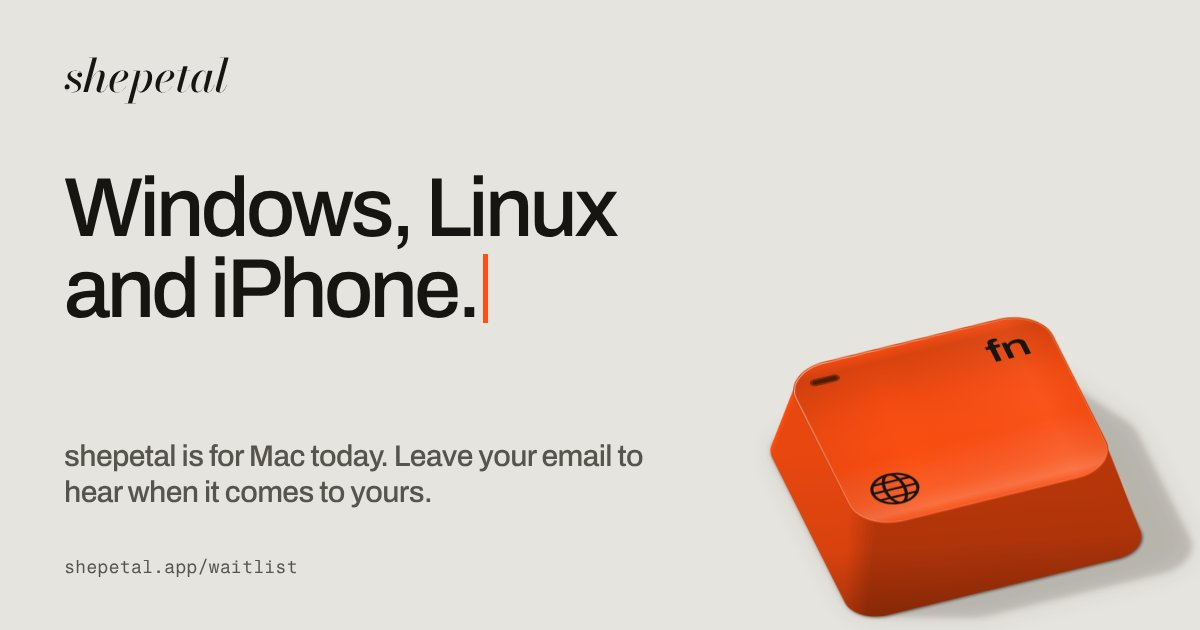
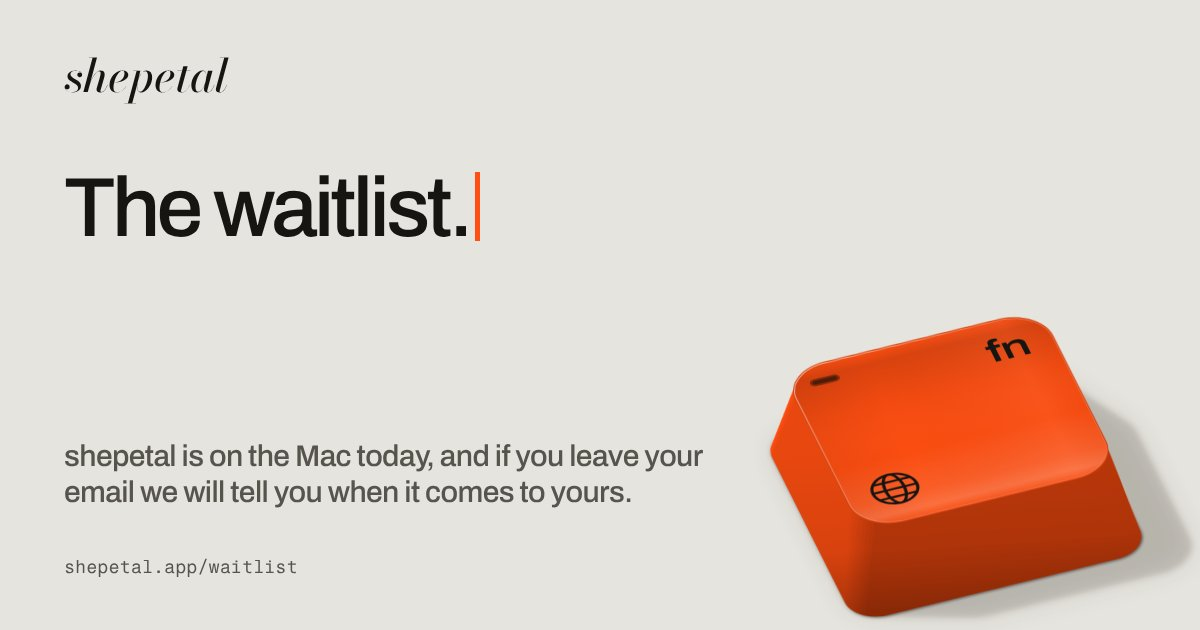
Waitlist: copy in Pavel's voice
- The waitlist page, its six note pages, the form, the consent box, the FAQ line, the confirmation email and the
  privacy section III.8 rewritten: second person, what you do and what happens, plain one to three word headings,
  and every fact as it was (7 days, 30 minutes, 30 days, double opt-in, AWS as the only recipient, Art. 6(1)(a) GDPR).
- pages.json: the waitlist title and sub line, and public/og/waitlist.jpg rendered from them.
- src/lib/brand-copy.ts: copyProblems() checks copy for an em dash, a capital "Shepetal", a hedge, the banned lines,
  "AI" or a model name, a footnote, a speed ratio, an unapproved price and the contrast and negation shapes. The
  waitlist tests run it over every page, title, preview, label, the FAQ line, the privacy section and the email.

Changed region(s): [[0.0308, 0.2714, 0.5242, 0.5127], [0.0617, 0.6937, 0.5858, 0.8143]]

diff --git a/web/src/components/site/waitlist.test.tsx b/web/src/components/site/waitlist.test.tsx
@@ -2,6 +2,7 @@ import { existsSync, readdirSync, readFileSync } from 'node:fs';
 import { join } from 'node:path';
 import { renderToStaticMarkup } from 'react-dom/server';
 import { afterEach, describe, expect, it, vi } from 'vitest';
+import { copyProblems, visibleText } from '@/lib/brand-copy';
 import { CONSENT_TEXT, PAGE } from '@/lib/waitlist-config';
 import { WaitlistForm } from './Waitlist';
 
@@ -55,13 +56,13 @@ describe('with WAITLIST on', () => {
     // The FAQ's answers are built when the module loads (as in the build, which inlines WAITLIST).
     vi.resetModules();
     const faq = renderToStaticMarkup((await import(/* @vite-ignore */ join(APP, '(site)', 'faq', 'page.tsx'))).default());
-    expect(faq).toContain('<a href="/waitlist">Join the waitlist</a> to hear when yours is out.');
+    expect(faq).toContain('<a href="/waitlist">Join the waitlist</a> and we will email you when yours is out.');
     expect((await import('@/app/sitemap')).default().map((e) => e.url)).toContain(`https://${process.env.SHEPETAL_DOMAIN}/waitlist`);
     const privacy = renderToStaticMarkup((await import(/* @vite-ignore */ join(APP, '(site)', 'privacy', 'page.tsx'))).default());
     for (const must of ['id="waitlist"', 'one purpose only', 'double opt-in', 'Art. 6(1)(a) GDPR', 'withdraw', 'deletes your address at once', 'within 30 days', 'and the waitlist emails'])
       expect(privacy, must).toContain(must);
     expect(renderToStaticMarkup((await import(/* @vite-ignore */ join(APP, '(site)', 'waitlist', 'page.tsx'))).default())).toContain(
-      'We use your email for one thing: to tell you when shepetal comes to a platform you chose.',
+      'We only use your email to tell you when shepetal comes to a platform you chose.',
     );
   });
 });
@@ -86,7 +87,7 @@ describe('the waitlist form', () => {
 
   // GDPR consent is a box the person ticks, in these exact words, which each row stores (consent_text).
   it('asks for consent with a required box that starts unticked, in the words the database stores', () => {
-    expect(CONSENT_TEXT).toBe('Email me when shepetal comes to a platform I chose, and for nothing else. Unsubscribe anytime.');
+    expect(CONSENT_TEXT).toBe('Email me when shepetal comes to a platform I chose. You use my email for this only, and I can unsubscribe anytime.');
     expect(attrs(html, 'input', 'name="consent"')).toEqual({ type: 'checkbox', required: '', name: 'consent', value: 'yes' });
     expect(html).toMatch(new RegExp(`<label class="s-check"><input [^>]*name="consent"[^>]*/>${CONSENT_TEXT.replace(/\./g, '\\.')}</label>`));
     expect(html).not.toMatch(/checked/);
@@ -129,5 +130,45 @@ describe('the waitlist pages', () => {
 
   it('link with prefetch off', () => {
     for (const p of pages) for (const tag of read(p).match(/<Link\b[^>]*>/g) ?? []) expect(tag, p).toContain('prefetch={false}');
+  });
+});
+
+// Every word a visitor reads on the waitlist: the pages, their titles and previews, the form, the FAQ line and the
+// privacy section (the email is checked in src/lib/waitlist.test.ts). Brand rules and the voice skill's sentence shapes.
+describe('the waitlist copy', () => {
+  it('catches what the brand rules ban', () => {
+    for (const bad of ['Shepetal is out.', 'Hold fn, speak, let go.', 'hold fn, talk', 'Dictation that keeps quiet.', 'It may come.', 'up to 3 years', 'Now with AI.', 'That is it—done.', 'Twice the speed<sup>1</sup>', '3x faster than typing', 'We never sell it.', 'It works without a key.', '$5 a month'])
+      expect(copyProblems(bad), bad).not.toEqual([]);
+    for (const good of ['$23.99 once. Yours forever.', '$0.99 a month.', '4x faster than typing.', 'Works offline.'])
+      expect(copyProblems(good), good).toEqual([]);
+  });
+
+  it('keeps every brand rule on every page, title, preview, label and message', async () => {
+    vi.stubEnv('WAITLIST', 'on');
+    vi.resetModules();
+    const texts: Record<string, string> = {};
+    const pages = ['', ...readdirSync(DIR, { withFileTypes: true }).filter((d) => d.isDirectory()).map((d) => d.name)];
+    for (const p of pages) {
+      const mod = await import(/* @vite-ignore */ join(DIR, p, 'page.tsx'));
+      const html = renderToStaticMarkup(mod.default());
+      expect(html, p).not.toBe('');
+      texts[p || 'waitlist'] = visibleText(html);
+      const m = mod.metadata as { title?: string; description?: string; openGraph?: { title?: string; description?: string; images?: { alt?: string }[] } };
+      texts[`${p || 'waitlist'} metadata`] = [m.title, m.description, m.openGraph?.title, m.openGraph?.description, m.openGraph?.images?.[0]?.alt].join(' ');
+    }
+    const { PAGES } = await import('@/lib/seo');
+    texts['link preview'] = `${PAGES.waitlist.title} ${PAGES.waitlist.sub}`;
+    texts.consent = CONSENT_TEXT;
+    const faq = visibleText(renderToStaticMarkup((await import(/* @vite-ignore */ join(APP, '(site)', 'faq', 'page.tsx'))).default()));
+    texts.faq = faq.match(/Join the waitlist[^.]*\./)![0];
+    const privacy = renderToStaticMarkup((await import(/* @vite-ignore */ join(APP, '(site)', 'privacy', 'page.tsx'))).default());
+    texts.privacy = [
+      privacy.match(/<h3 id="waitlist">[\s\S]*?(?=<div class="s-box">)/)![0],
+      privacy.match(/<li>The waitlist:[^<]*<\/li>/)![0],
+      privacy.match(/The waitlist needs[^.]*\./)![0],
+      privacy.match(/and the waitlist emails \(section III\.8\)/)![0],
+    ].map(visibleText).join(' ');
+    for (const [where, text] of Object.entries(texts)) expect(copyProblems(text), `${where}: ${text}`).toEqual([]);
+    expect(texts.privacy).toContain('one purpose only');
   });
 });

diff --git a/web/src/app/(site)/privacy/page.tsx b/web/src/app/(site)/privacy/page.tsx
@@ -142,21 +142,21 @@ export default function PrivacyPolicy() {
               <h3 id="waitlist">8. The waitlist</h3>
               <p>
                 When you join the waitlist for Windows, Linux or iPhone, we store your email address, the platforms you
-                chose, the words of the box you ticked, when you signed up and when you confirmed, and a keyed hash
-                (HMAC-SHA-256) of your IP address, which only limits how many signups come from one connection. Your IP
-                address itself is not stored.
+                chose, the words of the box you ticked, and when you signed up and when you confirmed. Of your IP
+                address we keep only a keyed hash (HMAC-SHA-256), and we use it to limit how many signups come from one
+                connection.
               </p>
               <p>
-                We use your email address for one purpose only: to email you when shepetal comes to a platform you
-                chose. No newsletter, no offers, no analytics, and nobody receives it except Amazon Web Services, which
-                sends the emails for us. First we send one email to confirm the address (double opt-in): the address
-                counts only once you click its link, and if you never do, we send nothing else.
+                We use your email address for one purpose only, and that is to email you when shepetal comes to a
+                platform you chose. The only one who receives it is Amazon Web Services, which sends the emails for us.
+                First we send you one email to confirm the address (double opt-in), and the address counts only once you
+                click its link, so until you do, that confirmation is the only email you get from us.
               </p>
               <p>
                 Every email has a link that unsubscribes you and deletes your address at once. You can also withdraw
-                your consent at any time by writing to <a href="mailto:support@shepetal.app">support@shepetal.app</a>;
-                that does not affect what we did before. The links carry a random number, never your address, and your
-                address is never written to our request logs.
+                your consent at any time by writing to <a href="mailto:support@shepetal.app">support@shepetal.app</a>,
+                and what we did before you withdrew stays lawful. The links carry a random number in place of your
+                address, so your address stays out of our request logs.
               </p>
               <p>
                 Legal basis: Art. 6(1)(a) GDPR, your consent, which is also the express consent § 7 of the German Act
@@ -231,9 +231,9 @@ export default function PrivacyPolicy() {
             <li>Email to us: up to 3 years after the end of the year of our last exchange.</li>
             {waitlistOn() && (
               <li>
-                The waitlist: an address that is not confirmed is deleted within 30 days of its last signup. A confirmed
-                address is deleted when you unsubscribe, or once shepetal has come to every platform you chose and we
-                have told you.
+                The waitlist: an unconfirmed address is deleted within 30 days of its last signup. A confirmed address
+                is deleted when you unsubscribe, or once shepetal has come to every platform you chose and we have told
+                you.
               </li>
             )}
             <li>Cancellations: 3 years after the end of the year you sent them, deleted by the next cancellation sent after that. The email that told us of it is kept like email to us. The counts that limit the form: one minute.</li>
@@ -244,7 +244,7 @@ export default function PrivacyPolicy() {
             You need a Google account and its email address to have an account and to use the app: without them we
             cannot give you a trial or a license. To buy, Stripe needs your payment and billing details, which the law
             also requires for tax. To cancel without signing in, we need the email of your account to find your
-            contract.{waitlistOn() && ' The waitlist needs your email address, and only if you want to join it.'} Analytics are not needed for anything: the Service works the same without them. No analytics script
+            contract.{waitlistOn() && ' The waitlist needs your email address, and you give it to us only if you want to join.'} Analytics are not needed for anything: the Service works the same without them. No analytics script
             runs in your browser. The server events in section III.5 do not depend on your browser, but you can object
             to them (see the box in section III).
           </p>

diff --git a/web/src/app/(site)/waitlist/page.tsx b/web/src/app/(site)/waitlist/page.tsx
@@ -8,7 +8,7 @@ import { waitlistOn } from '@/lib/waitlist-config';
 
 export const metadata: Metadata = pageMetadata('waitlist', {
   title: 'Waitlist',
-  description: 'shepetal is for Mac today. Leave your email to hear when it comes to Windows, Linux or iPhone.',
+  description: 'shepetal is on the Mac today, and if you leave your email we will tell you when it comes to Windows, Linux or iPhone.',
 });
 
 // Prerendered and served from the cache: the Workers Free plan's 10 ms of CPU leaves no room for a render. The build
@@ -21,13 +21,16 @@ export default function Waitlist() {
     <>
       <SiteHeader end={<Link href="/faq" prefetch={false}>FAQ</Link>} />
       <main className="s-main s-legal s-waitlist">
-        <h1 className="s-h2">Windows, Linux and iPhone.</h1>
-        <p className="s-lede">shepetal is for Mac today. Leave your email, and we write when it comes to yours.</p>
+        <h1 className="s-h2">The waitlist.</h1>
+        <p className="s-lede">
+          You probably use Windows, Linux or an iPhone and want shepetal there too, and today it is only on the Mac.
+          Leave your email and we will write to you when it comes to yours.
+        </p>
         <WaitlistForm />
         <p className="s-small">
-          We use your email for one thing: to tell you when shepetal comes to a platform you chose. First we send one
-          email to confirm your address. Every email has a link that unsubscribes you and deletes your address.{' '}
-          <Link href="/privacy#waitlist" prefetch={false}>Privacy Policy</Link>.
+          We only use your email to tell you when shepetal comes to a platform you chose. First we send you one email
+          to confirm your address, and every email from us has a link that unsubscribes you and deletes your address.
+          You can read the details in our <Link href="/privacy#waitlist" prefetch={false}>Privacy Policy</Link>.
         </p>
       </main>
     </>

diff --git a/web/src/lib/brand-copy.ts b/web/src/lib/brand-copy.ts
@@ -1,0 +1,37 @@
+/**
+ * The brand rules for public copy, as a check the tests run over the words a visitor reads (rendered text, metadata,
+ * emails). Returns what breaks a rule, empty when the copy is clean.
+ */
+const RULES: [string, RegExp][] = [
+  ['em dash', /—/],
+  ['capital Shepetal', /Shepetal/],
+  ['hedge', /\b(about|around|roughly|up to|typically|may|might|arguably|essentially|fundamentally)\b/i],
+  ['banned line', /hold (the )?fn|fn, (speak|talk)|dictation that keeps quiet/i],
+  ['AI or a model', /\bAI\b|\b(claude|gpt|chatgpt|gemini|whisper|llama|parakeet)\b/i],
+  ['footnote', /<sup\b|[¹²³†‡]|\[\d+\]/],
+  // A measured ratio is never published; the one approved claim is "4x faster than typing.", word for word.
+  ['speed ratio', /\b(?!4x faster than typing\.)\d+(\.\d+)?\s?(x|times) (faster|quicker)/i],
+  // The sentence shapes the voice skill rewrites as what happens.
+  ['contrast or negation', /\b(not a|rather than|instead of|does not|has no|never|on purpose|intentional|for the record|without|at the time of writing|nothing else)\b/i],
+];
+
+const APPROVED_PRICES = ['$23.99 once. Yours forever.', '$0.99 a month.'];
+
+export function copyProblems(text: string): string[] {
+  const found = RULES.filter(([, re]) => re.test(text)).map(([name, re]) => `${name}: "${text.match(re)![0]}"`);
+  const prices = APPROVED_PRICES.reduce((t, p) => t.split(p).join(''), text);
+  if (/[$€]\s?\d/.test(prices)) found.push('price outside the approved lines');
+  if (/4x faster than typing/i.test(text) && !text.includes('4x faster than typing.')) found.push('4x claim reworded');
+  return found;
+}
+
+/** The text of rendered HTML, the way a visitor reads it. */
+export const visibleText = (html: string) =>
+  html
+    .replace(/<[^>]+>/g, ' ')
+    .replace(/&#x27;|&#39;/g, "'")
+    .replace(/&quot;/g, '"')
+    .replace(/&nbsp;/g, ' ')
+    .replace(/&amp;/g, '&')
+    .replace(/\s+/g, ' ')
+    .trim();

diff --git a/web/src/lib/waitlist.test.ts b/web/src/lib/waitlist.test.ts
@@ -1,6 +1,7 @@
 import { readdirSync, readFileSync } from 'node:fs';
 import { join } from 'node:path';
 import { afterEach, beforeEach, describe, expect, it, vi } from 'vitest';
+import { copyProblems } from './brand-copy';
 import { db, useTestDb } from './test-db';
 
 // The waitlist is answered by worker.ts without Next (10 ms of CPU on Workers Free), and it holds people's email
@@ -256,11 +257,12 @@ describe('the confirmation email and its link (double opt-in)', () => {
 
   it('says what the address is for, and has a link that unsubscribes', async () => {
     const m = await signedUp('ada@example.com', ['windows', 'iphone']);
-    expect(m.subject).toBe('Confirm your place on the shepetal waitlist');
+    expect(m.subject).toBe('Confirm your email for the shepetal waitlist');
     expect(m.text).toContain('shepetal comes to iPhone or Windows');
-    expect(m.text).toContain('We use your address for this one thing only: one email when shepetal comes to a platform you chose.');
+    expect(m.text).toContain('we only use your address to send you one email when shepetal comes to a platform you chose.');
     expect(m.text).toMatch(/Unsubscribe and delete your address: https:\/\/shepetal\.app\/api\/waitlist\/unsubscribe\?t=[\w-]+\.[\w-]+/);
-    expect(m.text).not.toMatch(/Shepetal|—|\b(may|might|about|around|roughly|typically)\b/);
+    // The links carry random tokens: only the words are copy.
+    expect(copyProblems(`${m.subject}\n${m.text.replace(/https:\/\/\S+/g, '<link>')}`)).toEqual([]);
   });
 
   // The request logs keep every URL: the address must not be in one, not even encoded.

diff --git a/web/src/lib/waitlist.ts b/web/src/lib/waitlist.ts
@@ -180,19 +180,19 @@ export async function sendConfirmation(secret: string, origin: string, email: st
   const names = platforms.map((p) => PLATFORMS[p]);
   const which = names.length > 1 ? `${names.slice(0, -1).join(', ')} or ${names.at(-1)}` : names[0];
   const text = [
-    `You asked to hear when shepetal comes to ${which}. Confirm it with this link:`,
+    `You asked us to tell you when shepetal comes to ${which}, so just click this link to confirm your email:`,
     '',
     confirm,
     '',
-    `The link works for ${CONFIRM_DAYS} days. We use your address for this one thing only: one email when shepetal comes to a platform you chose.`,
-    'If you did not ask for this, ignore this email: you hear nothing more from us, and we delete your address within 30 days.',
+    `The link works for ${CONFIRM_DAYS} days, and we only use your address to send you one email when shepetal comes to a platform you chose.`,
+    'If someone else typed in your address, just ignore this email. This is the last one you get from us, and we delete your address within 30 days.',
     '',
     `Unsubscribe and delete your address: ${unsubscribe}`,
     '',
     'shepetal',
     'BackAnt, Inc., 131 Continental Dr, Suite 305, Newark, DE 19713, USA',
   ].join('\n');
-  await sendMail(email, 'Confirm your place on the shepetal waitlist', text);
+  await sendMail(email, 'Confirm your email for the shepetal waitlist', text);
 }
 
 // --- GET /api/waitlist/confirm, GET and POST /api/waitlist/unsubscribe ------------------------------------------------

diff --git a/web/src/app/(site)/waitlist/link/page.tsx b/web/src/app/(site)/waitlist/link/page.tsx
@@ -2,17 +2,17 @@ import Link from 'next/link';
 import { noteMetadata, WaitlistNote } from '@/components/site/Waitlist';
 import { waitlistOn } from '@/lib/waitlist-config';
 
-export const metadata = noteMetadata('This link does not work');
+export const metadata = noteMetadata('Invalid link');
 export const dynamic = 'force-static';
 
 /** A confirmation or unsubscribe link that is not signed, is older than 7 days, or came before an unsubscribe. */
 export default function BadLink() {
   return (
-    <WaitlistNote title="This link does not work.">
-      <p>It is too old or incomplete.</p>
+    <WaitlistNote title="Invalid link.">
+      <p>The link you clicked is too old or incomplete.</p>
       {waitlistOn() && (
         <p>
-          Sign up again, and we send you a new one. <Link href="/waitlist" prefetch={false}>Back to the waitlist</Link>
+          Just sign up again and we will send you a new one. <Link href="/waitlist" prefetch={false}>Back to the waitlist</Link>
         </p>
       )}
     </WaitlistNote>

diff --git a/web/src/app/(site)/waitlist/confirmed/page.tsx b/web/src/app/(site)/waitlist/confirmed/page.tsx
@@ -2,15 +2,18 @@ import { notFound } from 'next/navigation';
 import { noteMetadata, WaitlistNote } from '@/components/site/Waitlist';
 import { waitlistOn } from '@/lib/waitlist-config';
 
-export const metadata = noteMetadata('You are on the list');
+export const metadata = noteMetadata('Confirmed');
 export const dynamic = 'force-static';
 
 export default function Confirmed() {
   // Only the signup and the confirmation link lead here: with WAITLIST off, built as the 404 page.
   if (!waitlistOn()) notFound();
   return (
-    <WaitlistNote title="You are on the list.">
-      <p>We write when shepetal comes to your platform. Every email has an unsubscribe link.</p>
+    <WaitlistNote title="Confirmed.">
+      <p>
+        Thanks, your address is confirmed and we will email you when shepetal comes to a platform you chose, and every
+        email from us has a link to unsubscribe.
+      </p>
     </WaitlistNote>
   );
 }

diff --git a/web/src/app/(site)/waitlist/check/page.tsx b/web/src/app/(site)/waitlist/check/page.tsx
@@ -3,15 +3,15 @@ import { notFound } from 'next/navigation';
 import { noteMetadata, WaitlistNote } from '@/components/site/Waitlist';
 import { waitlistOn } from '@/lib/waitlist-config';
 
-export const metadata = noteMetadata('Something is missing');
+export const metadata = noteMetadata('Missing details');
 export const dynamic = 'force-static';
 
 export default function Check() {
   // Only the signup and the confirmation link lead here: with WAITLIST off, built as the 404 page.
   if (!waitlistOn()) notFound();
   return (
-    <WaitlistNote title="Something is missing.">
-      <p>Enter your email, choose at least one platform and tick the box.</p>
+    <WaitlistNote title="Missing details.">
+      <p>To join, enter your email, pick at least one platform and tick the box, and then send the form again.</p>
       <p>
         <Link href="/waitlist" prefetch={false}>Back to the waitlist</Link>
       </p>

diff --git a/web/src/app/(site)/faq/page.tsx b/web/src/app/(site)/faq/page.tsx
@@ -115,12 +115,12 @@ const QAS: QA[] = [
         {waitlistOn() && (
           <>
             {' '}
-            <Link href="/waitlist" prefetch={false}>Join the waitlist</Link> to hear when yours is out.
+            <Link href="/waitlist" prefetch={false}>Join the waitlist</Link> and we will email you when yours is out.
           </>
         )}
       </p>
     ),
-    text: `Not yet. shepetal is for Mac today. Windows, Linux and iPhone are in the works, and they will be here when they are ready.${waitlistOn() ? ' Join the waitlist to hear when yours is out.' : ''}`,
+    text: `Not yet. shepetal is for Mac today. Windows, Linux and iPhone are in the works, and they will be here when they are ready.${waitlistOn() ? ' Join the waitlist and we will email you when yours is out.' : ''}`,
   },
   {
     q: 'Can I use it on more than one Mac?',

diff --git a/web/src/lib/waitlist-config.ts b/web/src/lib/waitlist-config.ts
@@ -13,7 +13,7 @@ export const PLATFORMS = { windows: 'Windows', linux: 'Linux', iphone: 'iPhone' 
 export type Platform = keyof typeof PLATFORMS;
 
 /** The checkbox's words. The form shows exactly this, and each row stores what it showed. */
-export const CONSENT_TEXT = 'Email me when shepetal comes to a platform I chose, and for nothing else. Unsubscribe anytime.';
+export const CONSENT_TEXT = 'Email me when shepetal comes to a platform I chose. You use my email for this only, and I can unsubscribe anytime.';
 
 /** Where each answer goes: static pages, prerendered and served from the cache. */
 export const PAGE = {

diff --git a/web/src/app/(site)/waitlist/unsubscribed/page.tsx b/web/src/app/(site)/waitlist/unsubscribed/page.tsx
@@ -1,12 +1,12 @@
 import { noteMetadata, WaitlistNote } from '@/components/site/Waitlist';
 
-export const metadata = noteMetadata('You are unsubscribed');
+export const metadata = noteMetadata('Unsubscribed');
 export const dynamic = 'force-static';
 
 export default function Unsubscribed() {
   return (
-    <WaitlistNote title="You are unsubscribed.">
-      <p>You get no more waitlist emails, and your address is deleted.</p>
+    <WaitlistNote title="Unsubscribed.">
+      <p>Your address is deleted and you are off the waitlist, so the waitlist emails stop here.</p>
     </WaitlistNote>
   );
 }
